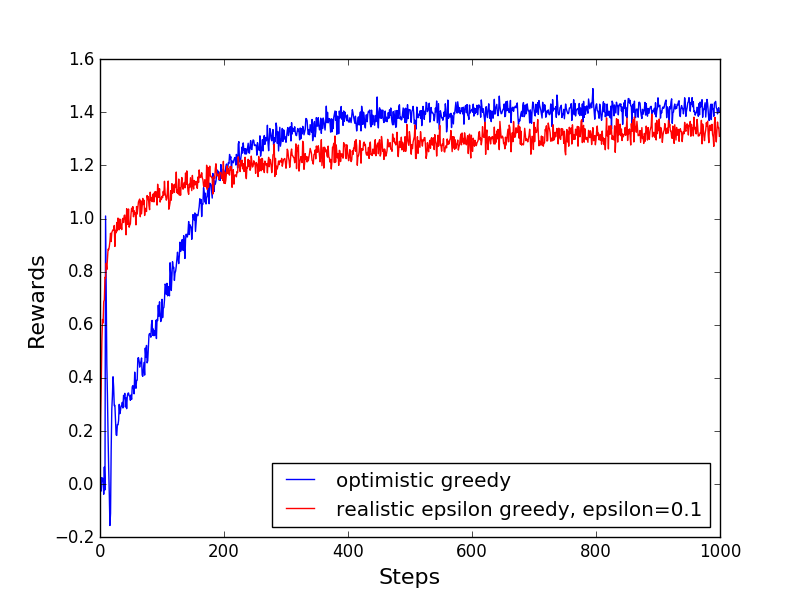
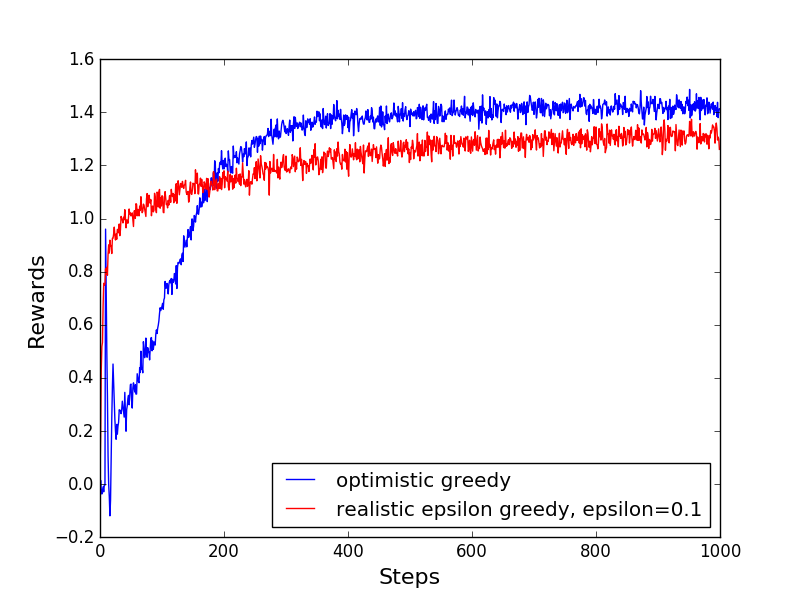
Clean

Changed region(s): [[0.125, 0.1508, 0.9062, 0.8442]]

diff --git a/Programming examples for the book - Reinforcement learning - an introduction/Examples/Chapter 2.6/Python/ten_armed_bandit_testbed.py b/Programming examples for the book - Reinforcement learning - an introduction/Examples/Chapter 2.6/Python/ten_armed_bandit_testbed.py
@@ -1,16 +1,19 @@
 import numpy as np
+import math
 from findBestAction import find_best_action
 
-def ten_armed_bandit_testbed(algorith, epsilon):
+
+def ten_armed_bandit_testbed(algorithm, epsilon=0):
     # 10-armed bandit model
     numSteps = 1000
     # Generate the position of the center of distribution for every arm
     arms = np.random.normal(0.0, 1.0, (10, 2000))
     numTimesUsed = np.zeros((10, 2000), dtype=np.int)
-    Qt = np.full((10, 2000), bias)
-    rewards = np.zeros((1000, 1))
+    Qt = np.zeros((10, 2000), dtype=np.double)
+    rewards = np.zeros((1000, 1), dtype=np.double)
     optimalActPercentage = np.zeros((1000, 1), dtype=np.double)
-    alpha = 0.1  # This example uses constant step size parameter
+    c = 2  # UCB parameter
+    a_values = np.zeros((10, 1), dtype=np.double)  # action values according to UCB
 
     # Find  best action for each bandit
     optimalActions = np.zeros((2000, 1), dtype=np.double)
@@ -18,27 +21,39 @@ def ten_armed_bandit_testbed(algorith, epsilon):
         I = np.argmax(arms[:, step])
         optimalActions[step] = I
 
-    for step in range(0,1000):
+    for step in range(0, 1000):
         sumRewards = 0
         optActCount = 0
-        for bandit in range(0,2000):
-            # selecting random or greedy action
-            if np.random.uniform() < epsilon:
-                # select random action
-                action = np.floor(np.random.uniform(0, 10))
-            else:
-                # select greedy action
-                action = find_best_action(Qt[:, bandit])
+        for bandit in range(0, 2000):
+            # action selection based on algorithm
+            action=-1
+            if algorithm=="UCB":
+                for a in range(0, 10):
+                    if numTimesUsed[a, bandit] == 0:
+                        action = a
+                        break
+                    a_values[a] = Qt[a, bandit] + c * math.sqrt(math.log(step) / numTimesUsed[a, bandit])
+                I = np.argmax(a_values)
+                if (action == -1):
+                    action = I
+            elif algorithm=="e-greedy":
+                # selecting random or greedy action
+                if np.random.uniform() < epsilon:
+                    # select random action
+                    action = np.floor(np.random.uniform(0, 10))
+                else:
+                    # select greedy action
+                    action = find_best_action(Qt[:, bandit])
 
             reward = np.random.normal(arms[action, bandit], 1)
             numTimesUsed[action, bandit]=numTimesUsed[action, bandit]+1
-            Qt[action, bandit] = Qt[action, bandit] + alpha*(reward-Qt[action,bandit])
+            Qt[action, bandit] = Qt[action, bandit] + (1 / numTimesUsed[action, bandit]) * (reward - Qt[action, bandit])
             sumRewards = sumRewards + reward
             if (action == optimalActions[bandit]):
-                optActCount = optActCount + 1;
+                optActCount = optActCount + 1
 
         rewards[step] = sumRewards / 2000
-        optimalActPercentage[step] = optActCount / 2000;
+        optimalActPercentage[step] = optActCount / 2000
         # Display the number of current step to see the progress
         if step % 50 == 0:
             print(step)

diff --git a/Programming examples for the book - Reinforcement learning - an introduction/Examples/Chapter 2.5/Python/ten_armed_bandit_testbed.py b/Programming examples for the book - Reinforcement learning - an introduction/Examples/Chapter 2.5/Python/ten_armed_bandit_testbed.py
@@ -2,17 +2,14 @@ import numpy as np
 from findBestAction import find_best_action
 
 
-# jit decorator tells Numba to compile this function.
-# The argument types will be inferred by Numba when function is called.
-
 def ten_armed_bandit_testbed(epsilon,bias):
     # 10-armed bandit model
     numSteps = 1000
     # Generate the position of the center of distribution for every arm
     arms = np.random.normal(0.0, 1.0, (10, 2000))
     numTimesUsed = np.zeros((10, 2000), dtype=np.int)
-    Qt = np.full((10, 2000), bias)
-    rewards = np.zeros((1000, 1))
+    Qt = np.full((10, 2000), bias, dtype=np.double)
+    rewards = np.zeros((1000, 1), dtype=np.double)
     optimalActPercentage = np.zeros((1000, 1), dtype=np.double)
     alpha = 0.1  # This example uses constant step size parameter
 
@@ -39,10 +36,10 @@ def ten_armed_bandit_testbed(epsilon,bias):
             Qt[action, bandit] = Qt[action, bandit] + alpha*(reward-Qt[action,bandit])
             sumRewards = sumRewards + reward
             if (action == optimalActions[bandit]):
-                optActCount = optActCount + 1;
+                optActCount = optActCount + 1
 
         rewards[step] = sumRewards / 2000
-        optimalActPercentage[step] = optActCount / 2000;
+        optimalActPercentage[step] = optActCount / 2000
         # Display the number of current step to see the progress
         if step % 50 == 0:
             print(step)

diff --git a/Programming examples for the book - Reinforcement learning - an introduction/Examples/Chapter 2.6/Python/ten_armed_bandit.py b/Programming examples for the book - Reinforcement learning - an introduction/Examples/Chapter 2.6/Python/ten_armed_bandit.py
@@ -1,16 +1,16 @@
 from ten_armed_bandit_testbed import ten_armed_bandit_testbed
 import matplotlib.pyplot as plt
 
-# optimistic greedy
-rewards1,optimalActPercentage1 = ten_armed_bandit_testbed(0, 5)
+# UCB
+rewards1,optimalActPercentage1 = ten_armed_bandit_testbed("UCB")
 
-# realistic epsilon greedy, epsilon=0.01
-rewards2,optimalActPercentage2 = ten_armed_bandit_testbed(0.1, 0)
+# epsilon greedy, epsilon=0.1;
+rewards2,optimalActPercentage2 = ten_armed_bandit_testbed("e-greedy", 0.1)
 
 # plot rewards
 plt.figure(1)
-plt.plot(rewards1, '-b', label='optimistic greedy')
-plt.plot(rewards2, '-r', label='realistic epsilon greedy, epsilon=0.1')
+plt.plot(rewards1, '-b', label='UCB')
+plt.plot(rewards2, '-r', label='epsilon greedy, epsilon=0.1')
 plt.legend(loc='lower right')
 fig = plt.figure(1)
 #fig.suptitle('Rewards', fontsize=16)
@@ -20,8 +20,8 @@ plt.show()
 
 # plot optimal action percentage
 plt.figure(2)
-plt.plot(optimalActPercentage1, '-b', label='optimistic greedy')
-plt.plot(optimalActPercentage2, '-r', label='realistic epsilon greedy, epsilon=0.01')
+plt.plot(optimalActPercentage1, '-b', label='UCB')
+plt.plot(optimalActPercentage2, '-r', label='epsilon greedy, epsilon=0.1')
 plt.legend(loc='lower right')
 fig = plt.figure(2)
 #fig.suptitle('Rewards', fontsize=20)

diff --git a/Programming examples for the book - Reinforcement learning - an introduction/Examples/Chapter 2.2/Python/ten_armed_bandit_testbed.py b/Programming examples for the book - Reinforcement learning - an introduction/Examples/Chapter 2.2/Python/ten_armed_bandit_testbed.py
@@ -1,18 +1,14 @@
 import numpy as np
 from findBestAction import find_best_action
 
-
-# jit decorator tells Numba to compile this function.
-# The argument types will be inferred by Numba when function is called.
-
 def ten_armed_bandit_testbed(epsilon):
     # 10-armed bandit model
     numSteps = 1000
     # Generate the position of the center of distribution for every arm
     arms = np.random.normal(0.0, 1.0, (10, 2000))
     numTimesUsed = np.zeros((10, 2000), dtype=np.int)
-    Qt = np.zeros((10, 2000))
-    rewards = np.zeros((1000, 1))
+    Qt = np.zeros((10, 2000),dtype=np.double)
+    rewards = np.zeros((1000, 1),dtype=np.double)
 
     for step in range(0,1000):
         sumRewards = 0
